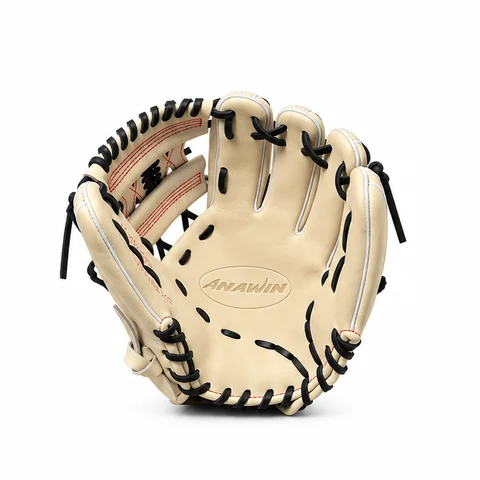
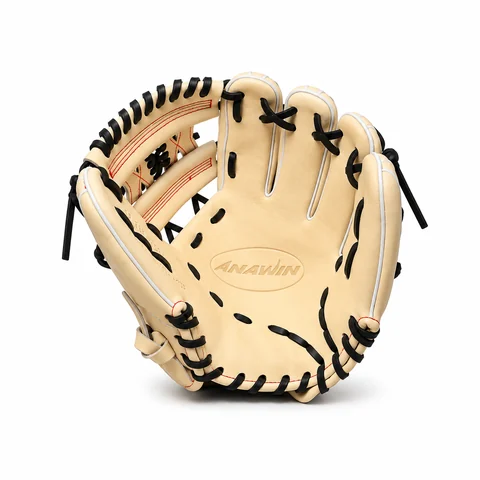
Use new uncropped camel palm and finger-side photos

Changed region(s): [[0.125, 0.125, 0.9062, 0.875]]

diff --git a/src/catalog.js b/src/catalog.js
@@ -87,7 +87,7 @@ const fullSizeAngles = Object.freeze([
 const fullSizePhotoSizes = Object.freeze({
   mint: { back: 1254, palm: 1254, side: 1254, 'finger-side': 1254 },
   black: { back: 1402, palm: 1402, side: 1402, 'finger-side': 1402 },
-  camel: { back: 1449, palm: 724, side: 724, 'finger-side': 724 },
+  camel: { back: 1449, palm: 1402, side: 724, 'finger-side': 1402 },
   orange: { back: 548, palm: 586, side: 599, 'finger-side': 567 }
 });
 const fullSizePhotos = (color, tone) => fullSizeAngles.map(([angle, view]) => ({
